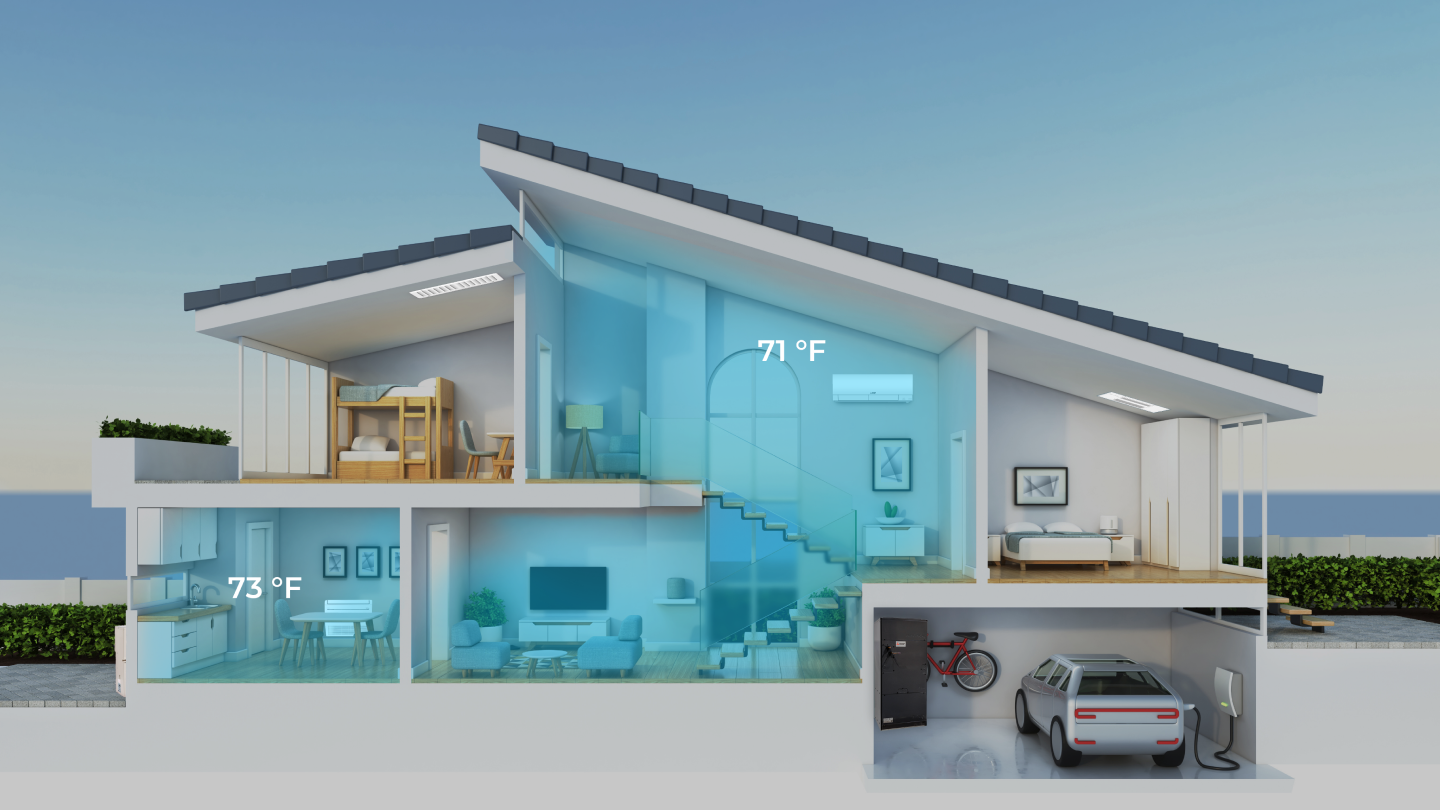
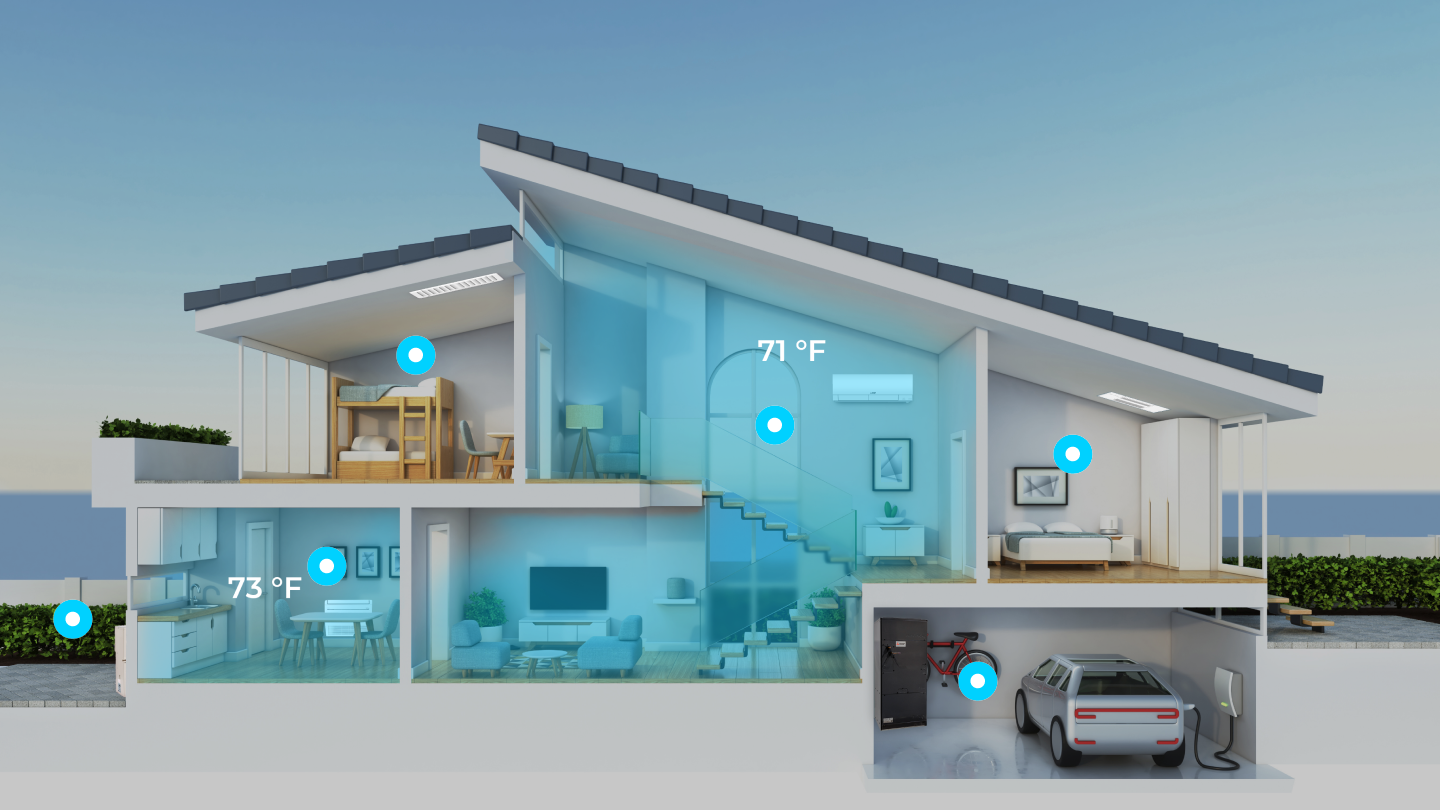
Updating interactive diagrams

diff --git a/heating.html b/heating.html
@@ -282,7 +282,7 @@
                     <div class="rev_slider fullwidthabanner js-rev" data-version="5.4.4" style="display:none" data-rev-layout="fullscreen" data-rev-bullets="false" data-rev-arrows="false">
                         <ul>
                             <li class="rev-item rev-item-1" data-transition="crossfade">
-                                <img class="rev-slidebg" src="images/heating-interactive-bg.png" alt="Master Slider 01" />
+                                <img class="rev-slidebg" src="./images/heating-interactive-bg-w-hover-icon.png" alt="Master Slider 01" />
                                 <div id="cassette-heater" class="interactiveHover"></div>
                                 <div id="duct-air-handler" class="interactiveHover"></div>
                                 <div id="wall-mounted-heating-cooling" class="interactiveHover"></div>
@@ -290,7 +290,7 @@
                                 <div id="multi-zone-heating-cooling" class="interactiveHover"></div>
                                 <div id="horizontal-ducted" class="interactiveHover"></div>
 
-                                <img src="images/heating-interactive-bg.png" alt="interactiveOverlay" id="interactiveOverlay" />
+                                <img src="images/heating-interactive-bg-w-hover-icon.png" alt="interactiveOverlay" id="interactiveOverlay" />
                             </li>
                         </ul>
                     </div>
@@ -299,7 +299,7 @@
 
              
             <!-- SECTION-->
-            <section class="section-pp pp-easing section-pp--pad section pp-scrollable bg-overlay--p85" data-background="light" data-title="why choose us">
+            <section class="section-pp pp-easing section-pp--pad section pp-scrollable bg-overlay--p85 p-t-100" data-background="light" data-title="why choose us">
                 <img src="./images/black-default-bg.png" alt="black-default-bg" class="black-default-bg">
                 
                 <!-- PROJECT-->
@@ -556,7 +556,7 @@
     <script src="https://maps.googleapis.com/maps/api/js?key=AIzaSyAEmXgQ65zpsjsEAfNPP9mBAz-5zjnIZBw"></script>
     <script src="js/theme-map.js"></script>
     <script src="js/config-contact.js"></script>
-    <script src="js/config-heating-interactive.js"></script>
+    <script src="js/config-interactive-diagram.js"></script>
 
     <!-- Main JS-->
     <script src="js/global.js"></script>

diff --git a/cooling.html b/cooling.html
@@ -282,7 +282,7 @@
                     <div class="rev_slider fullwidthabanner js-rev" data-version="5.4.4" style="display:none" data-rev-layout="fullscreen" data-rev-bullets="false" data-rev-arrows="false">
                         <ul>
                             <li class="rev-item rev-item-1" data-transition="crossfade">
-                                <img class="rev-slidebg" src="images/cooling-interactive-bg.png" alt="Master Slider 01" />
+                                <img class="rev-slidebg interactive" src="images/cooling-interactive-bg-w-hover-icon.png" alt="Master Slider 01" />
                                 <div id="cassette-heater" class="interactiveHover"></div>
                                 <div id="duct-air-handler" class="interactiveHover"></div>
                                 <div id="wall-mounted-heating-cooling" class="interactiveHover"></div>
@@ -290,7 +290,7 @@
                                 <div id="multi-zone-heating-cooling" class="interactiveHover"></div>
                                 <div id="horizontal-ducted" class="interactiveHover"></div>
 
-                                <img src="images/cooling-interactive-bg.png" alt="interactiveOverlay" id="interactiveOverlay" />
+                                <img src="images/cooling-interactive-bg-w-hover-icon.png" alt="interactiveOverlay" id="interactiveOverlay" />
                             </li>
                             </li>
                         </ul>
@@ -300,7 +300,7 @@
 
              
             <!-- SECTION-->
-            <section class="section-pp pp-easing section-pp--pad section pp-scrollable bg-overlay--p85" data-background="light" data-title="why choose us">
+            <section class="section-pp pp-easing section-pp--pad section pp-scrollable bg-overlay--p85 p-t-100" data-background="light" data-title="why choose us">
                 <img src="./images/black-default-bg.png" alt="black-default-bg" class="black-default-bg">
                 
                 <!-- PROJECT-->
@@ -536,7 +536,7 @@
     <script src="https://maps.googleapis.com/maps/api/js?key=AIzaSyAEmXgQ65zpsjsEAfNPP9mBAz-5zjnIZBw"></script>
     <script src="js/theme-map.js"></script>
     <script src="js/config-contact.js"></script>
-    <script src="js/config-heating-interactive.js"></script>
+    <script src="js/config-interactive-diagram.js"></script>
 
 
     <!-- Main JS-->

diff --git a/maintenance.html b/maintenance.html
@@ -351,7 +351,7 @@
                                             <img class="service-icon" src="images/thermostat-service-icon.png" data-default-src="images/thermostat-service-icon.png" data-blue-src="images/thermostat-service-icon-blue.png" alt="Thermostat Service">
                                             <p>Thermostat Service</p>
                                         </div>
-                                        <div class="col-md-3 service-item m-l-30 m-b-30" data-category="heating" data-title="Heating Inspection" data-description="Our licensed, expert technicians provide quality furnace repair services that will continue to keep you warm and cozy for years to come." data-image-url="path-to-image.jpg">
+                                        <div class="col-md-3 service-item m-l-30 m-b-30" data-category="heating" data-title="Heating Inspection" data-description="Our licensed, expert technicians provide quality furnace repair services that will continue to keep you warm and cozy for years to come." data-image-url="images/heating-inspection.png">
                                             <img class="service-icon" src="images/heating-inspection-icon.png" data-default-src="images/heating-inspection-icon.png" data-blue-src="images/heating-inspection-icon-blue.png" alt="Heating Inspection">
                                             <p>Heating Inspection</p>
                                         </div>

diff --git a/js/config-interactive-diagram.js b/js/config-interactive-diagram.js
@@ -15,9 +15,9 @@ document.addEventListener('DOMContentLoaded', function() {
 
         area.addEventListener("mouseleave", function(){
             if (defaultBackground.includes("heating")){
-                interactiveOverlay[2].style.backgroundImage = "url(\"images/heating-interactive-bg.png\")"
+                interactiveOverlay[2].style.backgroundImage = "url(\"images/heating-interactive-bg-w-hover-icon.png\")"
             } else{
-                interactiveOverlay[2].style.backgroundImage = "url(\"images/cooling-interactive-bg.png\")"
+                interactiveOverlay[2].style.backgroundImage = "url(\"images/cooling-interactive-bg-w-hover-icon.png\")"
             }
         })
     })

diff --git a/indoor-air-quality.html b/indoor-air-quality.html
@@ -274,7 +274,7 @@
         
         
         <!-- SECTION-->
-        <section class="section-pp pp-easing section-pp--pad section pp-scrollable bg-overlay--p85" data-background="light" data-title="why choose us">
+        <section class="section-pp pp-easing section-pp--pad section pp-scrollable bg-overlay--p85 p-t-100" data-background="light" data-title="iaq_nav_toggle">
             <img src="./images/black-default-bg.png" alt="black-default-bg" class="black-default-bg">
             
             <!-- PROJECT-->

diff --git a/commercial.html b/commercial.html
@@ -48,7 +48,7 @@
     <main id="main">
         <!-- HEADER-->
         <header id="header">
-            <div class="navbar header header-2 d-none d-lg-block">
+            <div class="header header-2 d-none d-lg-block">
                 <div class="header__bar" id="header-default-bg"> 
                     <div class="wrap wrap--w1790">
                         <div class="container-fluid">

diff --git a/js/config-pagePilling.js b/js/config-pagePilling.js
@@ -64,7 +64,7 @@
 
 
                         /* EFFECTS */
-                        if (nextIndex == 3){
+                        if (nextIndex == 3 || (nextIndex == 2 && title == "iaq_nav_toggle")){
                             jsLine.addClass('active');
                             navBar.style.backgroundColor = 'black';
                         } else {

diff --git a/css/main.css b/css/main.css
@@ -16686,9 +16686,9 @@ button:focus {
 
 .navbar {
   transition: background-color 0.5s ease-in-out;
-  filter: opacity(.9);
+  /* filter: opacity(.9); */
 }
 
-.pp-scrollable{
-  padding-top: 100px;
+.interactive{
+  font-family: inherit;
 }
